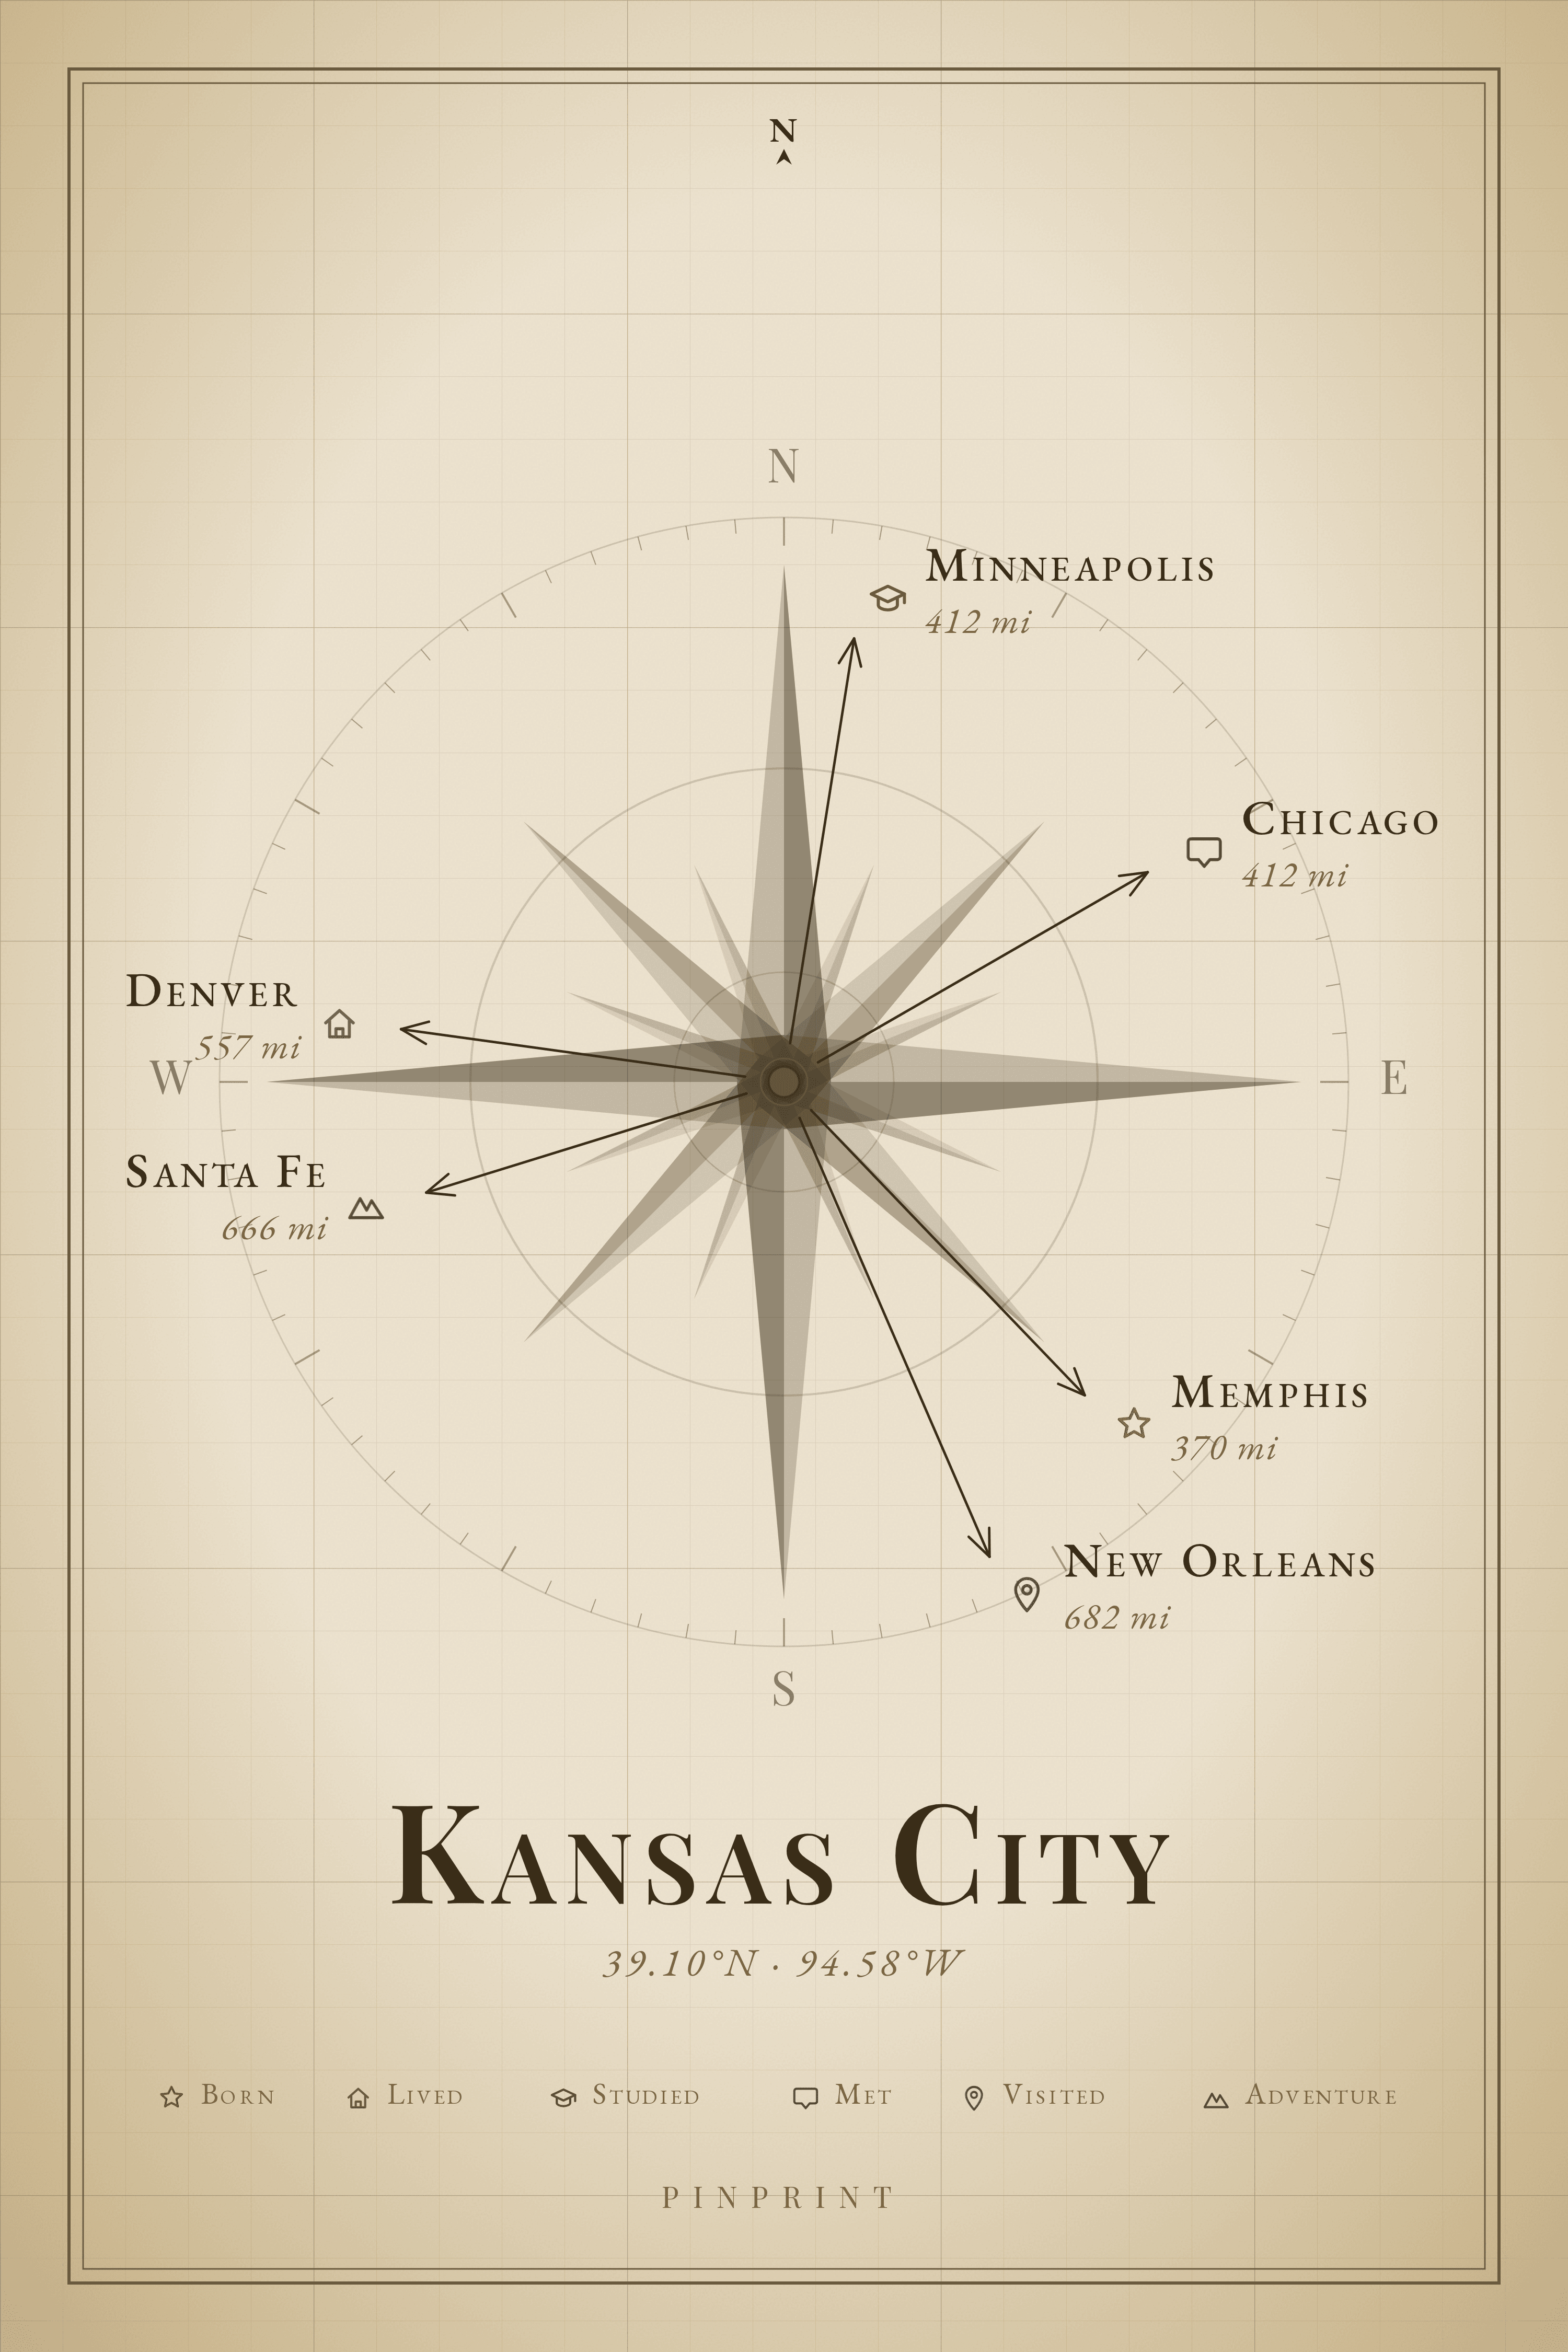
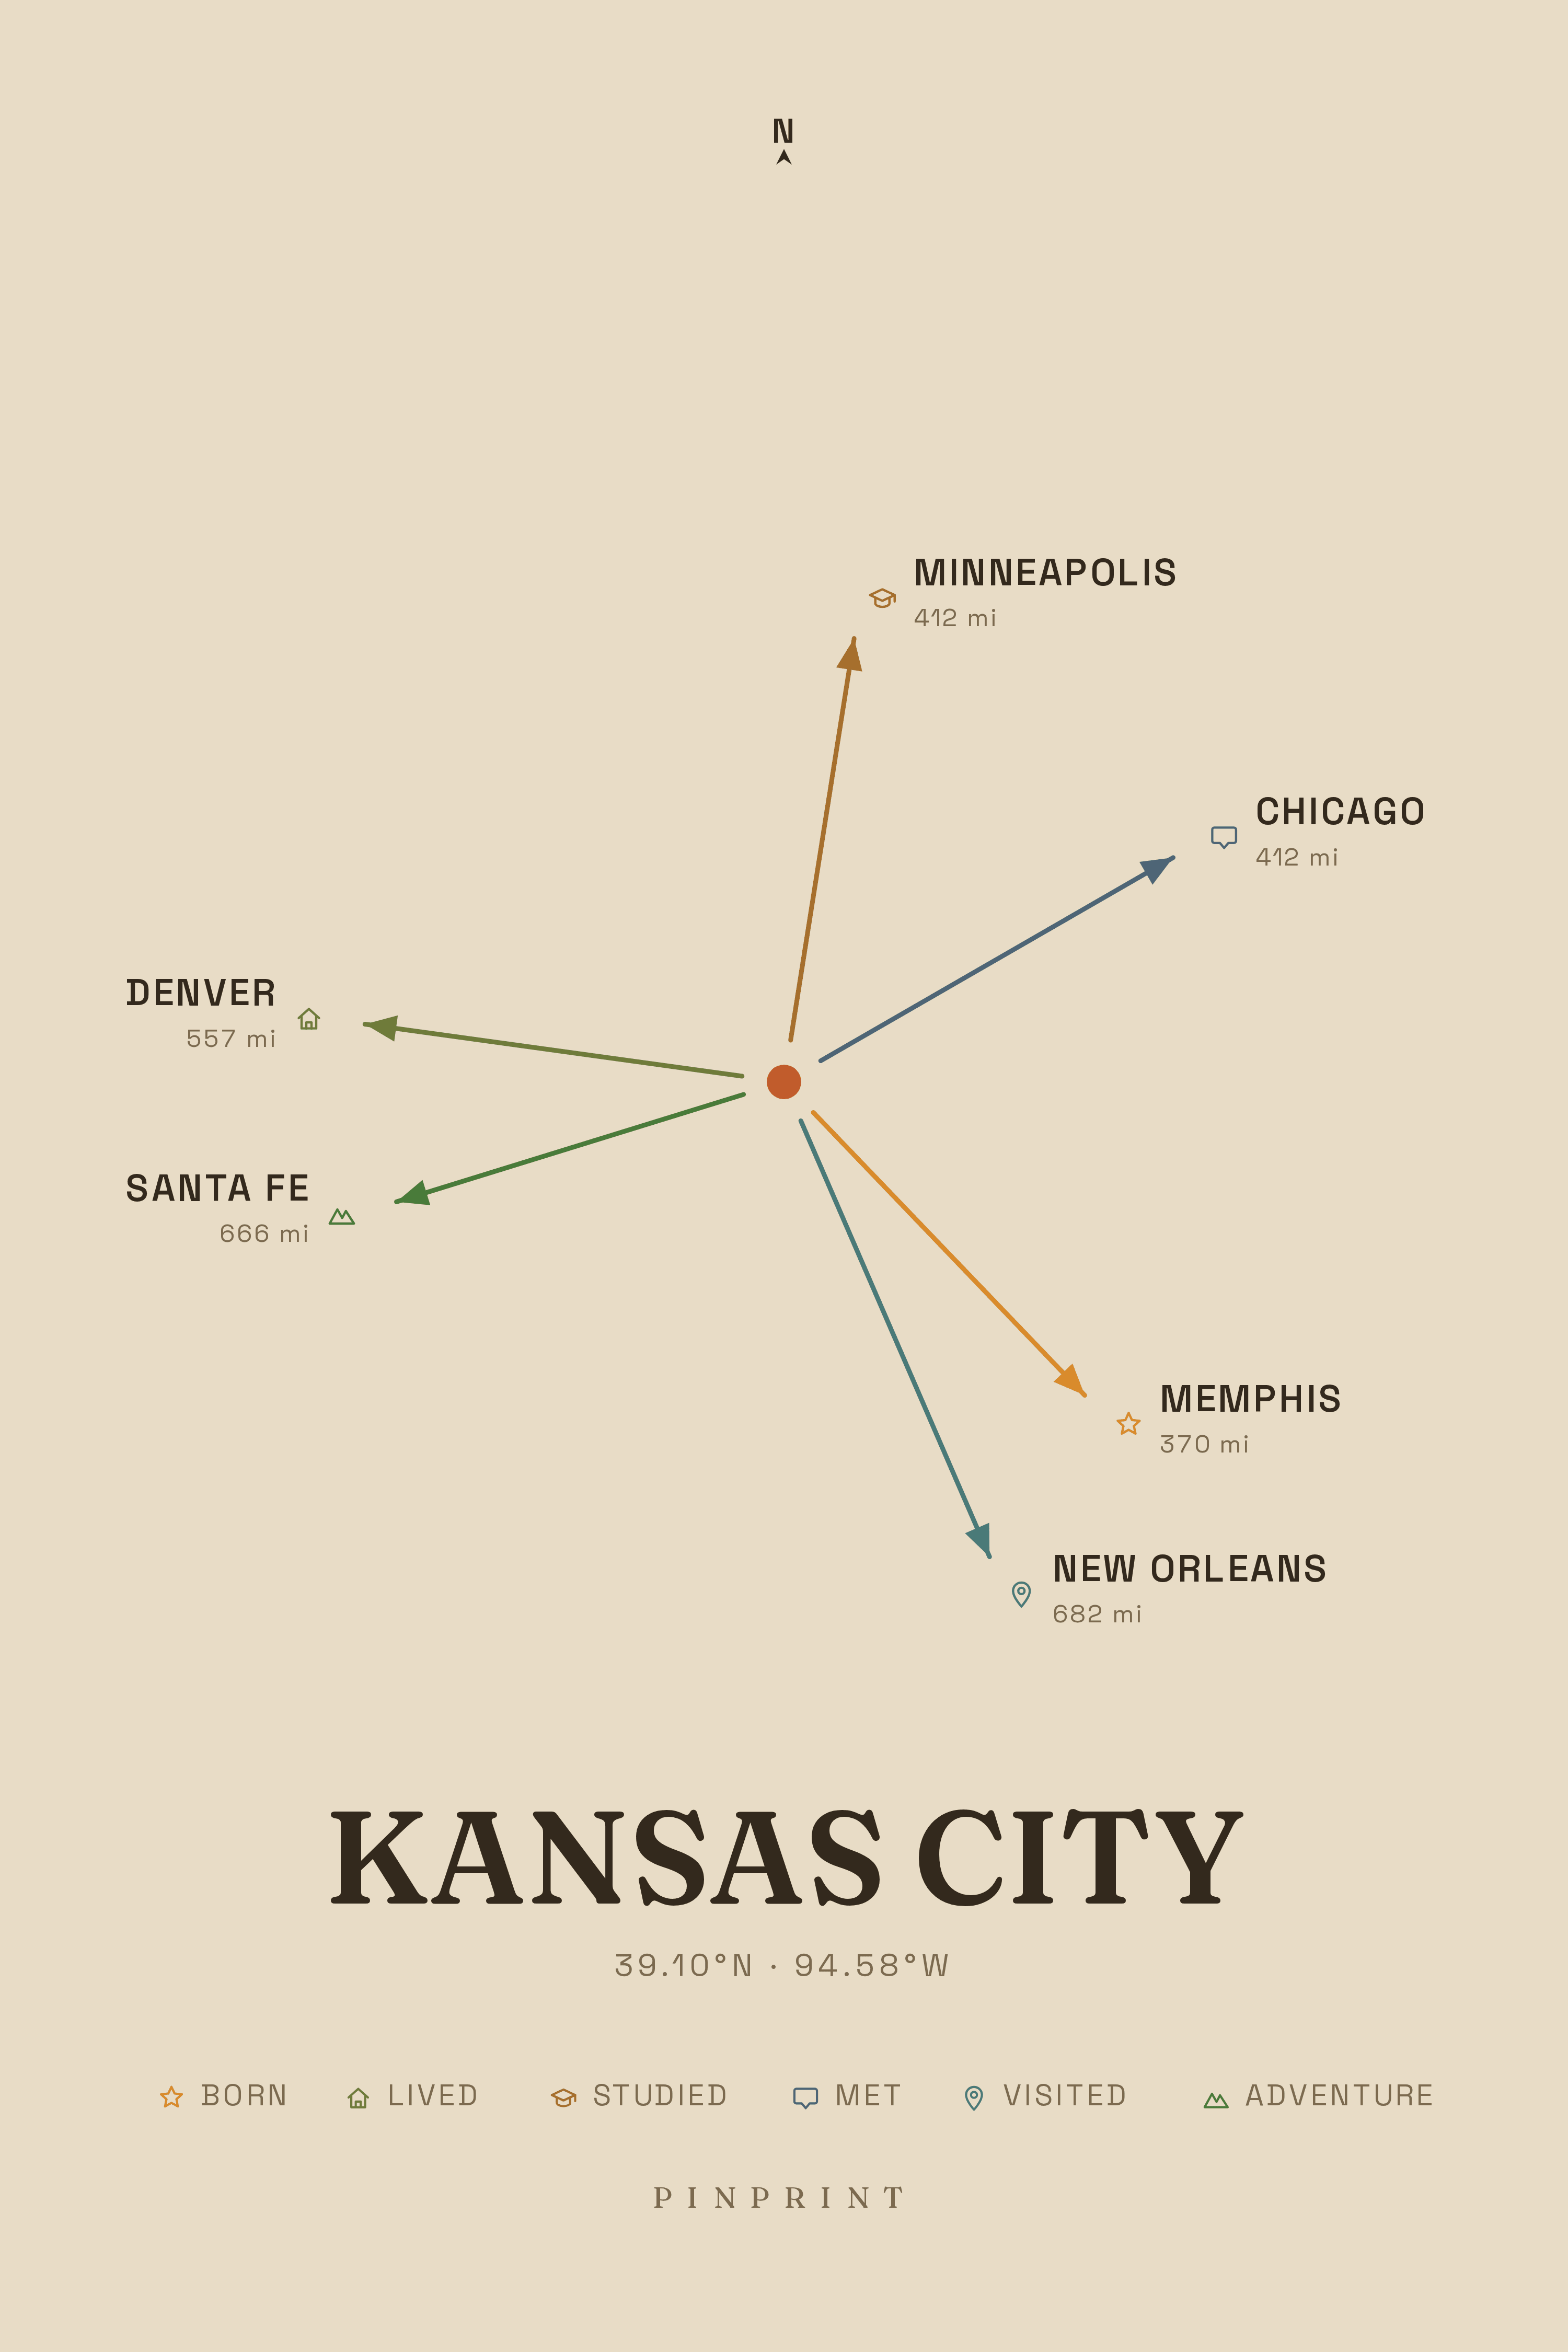
fix(looks): retire the heirloom look, swap its landing showcase to mid-century
Heirloom (vintage-cartography, classic variant) is gone from LookId/LOOKS
entirely, so it can never surface as a choice again — the "Where it Started"
story card now uses mid-century instead, regenerated via the real poster
engine (RENDER_ONLY=story-where-it-started render:posters, a new opt-in
filter added to the script so a one-off regen doesn't re-render all 20
presets). The unrelated "Heirloom variant" label under Advanced (the
vintage-cartography Classic/Explorer/Atlas sub-picker) is renamed to
"Vintage variant" — same control, no longer confusable with the retired look.

Claude-Session: https://claude.ai/code/session_01Da37g4pUGEPdqJq5htyR9Q

diff --git a/frontend/src/lib/showcase/presets.ts b/frontend/src/lib/showcase/presets.ts
@@ -125,20 +125,6 @@ export const PRESETS: PosterPreset[] = [
     ],
   },
   {
-    slug: "look-heirloom",
-    slot: "look",
-    templateId: "vintage-cartography",
-    vintageVariant: "classic",
-    units: "mi",
-    home: home("Boston", 42.3601, -71.0589),
-    places: [
-      P("Dublin", 53.3498, -6.2603, "family"),
-      P("Palermo", 38.1157, 13.3615, "family"),
-      P("Kraków", 50.0647, 19.945, "family"),
-      P("Halifax", 44.6488, -63.5752, "visited"),
-    ],
-  },
-  {
     slug: "look-nightfall",
     slot: "look",
     templateId: "night-sky",
@@ -212,8 +198,7 @@ export const PRESETS: PosterPreset[] = [
   {
     slug: "story-where-it-started",
     slot: "story",
-    templateId: "vintage-cartography",
-    vintageVariant: "classic",
+    templateId: "mid-century",
     units: "mi",
     // Bearings from KC: N, NE, ENE, SE, SSE, W/WSW — a full fan.
     home: home("Kansas City", 39.0997, -94.5786),

diff --git a/frontend/src/lib/looks/looks.test.ts b/frontend/src/lib/looks/looks.test.ts
@@ -9,8 +9,8 @@ import {
 
 describe("looks registry", () => {
   it("exposes the featured looks, in order, trend looks first", () => {
-    expect(LOOKS).toHaveLength(10);
-    expect(LOOK_ORDER).toHaveLength(10);
+    expect(LOOKS).toHaveLength(9);
+    expect(LOOK_ORDER).toHaveLength(9);
     expect(LOOK_ORDER).toEqual(LOOKS.map((l) => l.id));
     expect(LOOK_ORDER.slice(0, 4)).toEqual([
       "warm-minimal",
@@ -33,8 +33,8 @@ describe("looks registry", () => {
 });
 
 describe("activeLookId", () => {
-  it("maps the vintage classic variant to Heirloom", () => {
-    expect(activeLookId("vintage-cartography", "classic")).toBe("heirloom");
+  it("returns null for the vintage classic variant (heirloom look retired)", () => {
+    expect(activeLookId("vintage-cartography", "classic")).toBeNull();
   });
 
   it("maps non-vintage templates regardless of variant", () => {

diff --git a/frontend/src/lib/looks/looks.ts b/frontend/src/lib/looks/looks.ts
@@ -16,7 +16,6 @@ export type LookId =
   | "mid-century"
   | "swiss"
   | "celestial"
-  | "heirloom"
   | "nightfall"
   | "blueprint"
   | "modern"
@@ -55,13 +54,6 @@ export const LOOKS: Look[] = [
     label: "Celestial",
     blurb: "Deep indigo, glowing center, muted gold.",
     templateId: "celestial",
-  },
-  {
-    id: "heirloom",
-    label: "Heirloom",
-    blurb: "Aged paper, compass rose, engraved serif.",
-    templateId: "vintage-cartography",
-    vintageVariant: "classic",
   },
   {
     id: "nightfall",

diff --git a/frontend/scripts/render-posters.ts b/frontend/scripts/render-posters.ts
@@ -10,6 +10,7 @@
  *   pnpm --filter @pinprint/frontend render:posters            # spawns `next dev`
  *   RENDER_BASE_URL=http://localhost:3000 pnpm ... render:posters   # reuse a server
  *   pnpm --filter @pinprint/frontend render:posters --svg      # also emit SVGs
+ *   RENDER_ONLY=story-where-it-started pnpm ... render:posters # comma-separated slugs only
  *
  * This is on-demand asset generation — NOT part of `next build` or CI.
  */
@@ -26,6 +27,7 @@ const OUT_DIR = path.resolve(FRONTEND_DIR, "public/showcase");
 const SCALE = 2; // 1000x1500 -> 2000x3000
 const EMIT_SVG = process.argv.includes("--svg");
 const PROVIDED_BASE = process.env.RENDER_BASE_URL;
+const ONLY = process.env.RENDER_ONLY?.split(",").map((s) => s.trim());
 
 async function waitForServer(base: string, timeoutMs = 60_000): Promise<void> {
   const deadline = Date.now() + timeoutMs;
@@ -146,9 +148,10 @@ async function main() {
     await waitForServer(base);
   }
 
+  const targets = ONLY ? PRESETS.filter((p) => ONLY.includes(p.slug)) : PRESETS;
   const browser = await chromium.launch();
   try {
-    for (const preset of PRESETS) {
+    for (const preset of targets) {
       process.stdout.write(`Rendering ${preset.slug} … `);
       const { png, svg } = await renderOne(browser, base, preset.slug);
       await writeFile(path.join(OUT_DIR, `${preset.slug}.png`), png);
@@ -160,7 +163,7 @@ async function main() {
     if (proc) proc.kill("SIGTERM");
   }
 
-  console.log(`\nDone — ${PRESETS.length} posters written to ${OUT_DIR}`);
+  console.log(`\nDone — ${targets.length} posters written to ${OUT_DIR}`);
 }
 
 main().catch((err) => {

diff --git a/frontend/src/components/landing/copy.ts b/frontend/src/components/landing/copy.ts
@@ -149,7 +149,7 @@ export const copy = {
         title: "Where it started",
         caption: "Born in Memphis, met in Chicago, still measuring everything from Kansas City.",
         src: "/showcase/story-where-it-started.png",
-        alt: "Heirloom-style Pinprint centered on Kansas City",
+        alt: "Mid-Century-style Pinprint centered on Kansas City",
       },
       {
         title: "The honeymoon",

diff --git a/frontend/src/components/studio/AdvancedPanel.tsx b/frontend/src/components/studio/AdvancedPanel.tsx
@@ -500,7 +500,7 @@ export function AdvancedPanel() {
 
           {templateId === "vintage-cartography" && (
             <section className="flex flex-col gap-2">
-              <Heading>Heirloom variant</Heading>
+              <Heading>Vintage variant</Heading>
               <div className="flex flex-wrap items-center gap-1.5">
                 {VINTAGE_VARIANT_ORDER.map((v) => (
                   <PillButton

diff --git a/frontend/src/components/ui/DisclosureSection.tsx b/frontend/src/components/ui/DisclosureSection.tsx
@@ -14,7 +14,7 @@ export function DisclosureSection({
   children,
 }: {
   title: string;
-  /** Small muted status shown at the right of the summary (e.g. "Heirloom"). */
+  /** Small muted status shown at the right of the summary (e.g. "Advanced"). */
   accessory?: ReactNode;
   defaultOpen?: boolean;
   /** Extra classes on the root <details> (e.g. flex order for mobile). */